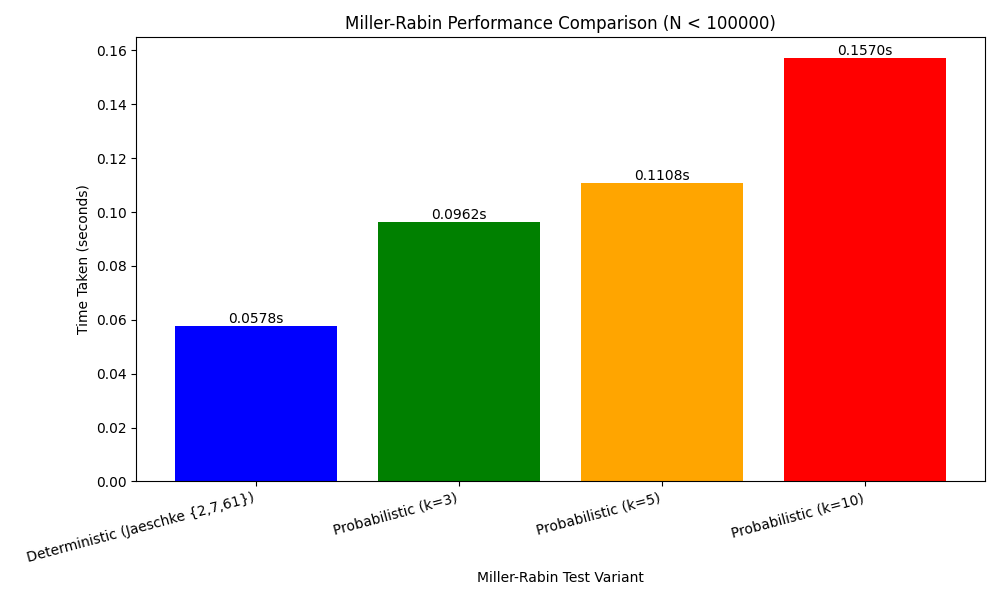
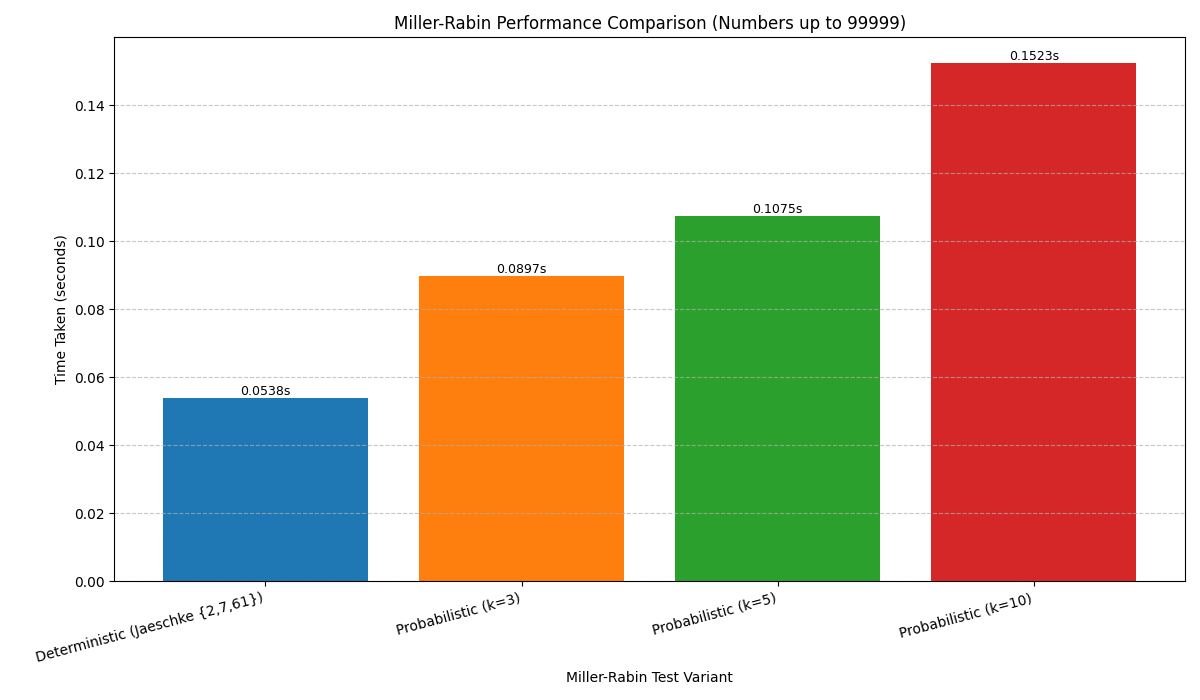
Refactor Miller-Rabin tests to save results in CSV format; remove tabulate dependency and enhance output clarity.

diff --git a/Project 3/Deliverable 2/Miller_Rabin_Deterministic.py b/Project 3/Deliverable 2/Miller_Rabin_Deterministic.py
@@ -1,119 +1,76 @@
 import random
 import time
-from tabulate import tabulate # For tables
+# Removed: from tabulate import tabulate
+import pandas as pd # For CSV and Excel output
 import matplotlib.pyplot as plt # For graphs
 
 # --- Core Miller-Rabin Logic (largely unchanged) ---
 def _is_strong_probable_prime(n, a, d, s):
-    """
-    Checks if n is a strong probable prime to base a.
-    (n - 1) = 2^s * d where d is odd.
-    Helper function for Miller-Rabin.
-    """
     x = pow(a, d, n)
     if x == 1 or x == n - 1:
         return True
-
     for _ in range(s - 1):
         x = pow(x, 2, n)
         if x == n - 1:
             return True
-        if x == 1: # Non-trivial square root of 1
+        if x == 1:
             return False
-    return False # Composite if loop finishes
+    return False
 
 def miller_rabin_deterministic_jaeschke(n):
-    """
-    Deterministic Miller-Rabin test for n < 4,759,123,141
-    using bases {2, 7, 61}.
-    Returns "prime" or "composite" or "out of range".
-    """
     if n <= 1: return "composite"
-    # Bases themselves and other small primes
     if n in {2, 3, 5, 7, 11, 13, 17, 19, 23, 29, 31, 37, 41, 43, 47, 53, 59, 61}:
         return "prime"
-    
-    if n % 2 == 0 or n % 3 == 0 or n % 5 == 0: # Quick check for divisibility by small primes
+    if n % 2 == 0 or n % 3 == 0 or n % 5 == 0:
         return "composite"
-
     if n >= 4759123141:
         return "out of range for Jaeschke set"
 
     bases = [2, 7, 61]
-
     d = n - 1
     s = 0
     while d % 2 == 0:
         d //= 2
         s += 1
-
     for a in bases:
-        if n == a: # Should have been caught by the 'in' check above, but for safety.
-            return "prime" 
-        # If a base divides n, and n is not that base itself (n > a), then n is composite.
-        # This is implicitly handled if _is_strong_probable_prime is robust for a|n,
-        # or by the fact that for these small prime bases, n%a==0 would have been caught
-        # by the earlier n%2, n%3, n%5 checks if a was 2,3,5.
-        # For a=7 or a=61, if n is a multiple, it's composite.
-        # A direct check `if n % a == 0: return "composite"` could be added here if n wasn't already filtered.
-        # The _is_strong_probable_prime test assumes gcd(a,n)=1 for its guarantees usually,
-        # but practically if pow(a,d,n) works, it means 'a' is not 0 mod n.
-        # If n%a == 0, and a < n, then n is composite. The initial checks cover a=2,3,5.
-        # For a=7 or a=61, if n % a == 0, it's composite.
-        # Let's ensure this is robust. A simple way:
-        if n % a == 0 and n != a : # If a base divides n and n is larger
-             return "composite"
-
+        if n == a: return "prime"
+        if n % a == 0 and n != a: return "composite"
         if not _is_strong_probable_prime(n, a, d, s):
             return "composite"
     return "prime"
 
 def miller_rabin_probabilistic(n, k):
-    """
-    Probabilistic Miller-Rabin test.
-    Returns "probably prime" or "composite".
-    """
     if n <= 1: return "composite"
     if n == 2 or n == 3: return "probably prime"
     if n % 2 == 0: return "composite"
-
     d = n - 1
     s = 0
     while d % 2 == 0:
         d //= 2
         s += 1
-
     for _ in range(k):
-        # Ensure 'a' is chosen correctly for small n if they reach here
-        if n <= 4: # Should not happen due to prior checks, but defensive
-            a = 2
-        elif n == 5: # randrange(2,4)
-            a = random.choice([2,3])
-        else:
-            a = random.randrange(2, n - 1)
-            
+        if n <= 4: a = 2
+        elif n == 5: a = random.choice([2,3])
+        else: a = random.randrange(2, n - 1)
         if not _is_strong_probable_prime(n, a, d, s):
             return "composite"
     return "probably prime"
 
 # --- Benchmarking Function ---
 def run_benchmark(test_limit=100000):
-    """
-    Runs benchmarks and returns results for tabulation and graphing.
-    """
     print(f"\nRunning benchmarks for numbers up to {test_limit-1}...")
     numbers_to_test = list(range(test_limit))
-    benchmark_results = []
+    benchmark_results_list_of_dicts = [] # Changed variable name for clarity
 
     # Deterministic Jaeschke
     start_time = time.time()
     for num in numbers_to_test:
         miller_rabin_deterministic_jaeschke(num)
     time_taken = time.time() - start_time
-    benchmark_results.append({
+    benchmark_results_list_of_dicts.append({
         "Test Type": "Deterministic (Jaeschke {2,7,61})",
-        "N": test_limit,
-        "Time (s)": f"{time_taken:.4f}"
+        "N (Up to)": test_limit -1, # Clarify N refers to numbers tested up to N-1
+        "Time (s)": float(f"{time_taken:.4f}") # Store as float for easier processing
     })
 
     # Probabilistic Miller-Rabin with varying k
@@ -122,20 +79,23 @@ def run_benchmark(test_limit=100000):
         for num in numbers_to_test:
             miller_rabin_probabilistic(num, k_prob)
         time_taken = time.time() - start_time
-        benchmark_results.append({
+        benchmark_results_list_of_dicts.append({
             "Test Type": f"Probabilistic (k={k_prob})",
-            "N": test_limit,
-            "Time (s)": f"{time_taken:.4f}"
+            "N (Up to)": test_limit -1,
+            "Time (s)": float(f"{time_taken:.4f}")
         })
-    return benchmark_results
+    return benchmark_results_list_of_dicts
 
 # --- Main Execution ---
 if __name__ == "__main__":
     print("Miller-Rabin Primality Test Output Demonstration")
     print("=" * 50)
+    print("Note: Output will be saved to CSV and Excel files.")
+    print("Ensure you have 'pandas' and 'openpyxl' installed: pip install pandas openpyxl")
 
-    # 1. Deterministic Test Examples Table
-    print("\n1. Deterministic Miller-Rabin Test Examples (Jaeschke for n < 4,759,123,141)")
+
+    # 1. Deterministic Test Examples
+    print("\n1. Processing Deterministic Miller-Rabin Test Examples...")
     deterministic_test_cases = [
         {"Number": 1, "Known Status": "Composite (Not Prime)"},
         {"Number": 2, "Known Status": "Prime"},
@@ -144,57 +104,78 @@ if __name__ == "__main__":
         {"Number": 61, "Known Status": "Prime (a base)"},
         {"Number": 97, "Known Status": "Prime"},
         {"Number": 2047, "Known Status": "Composite (23*89)"},
-        {"Number": 4759123123, "Known Status": "Composite (17*279948419)"}, # Corrected
+        {"Number": 4759123123, "Known Status": "Composite (17*279948419)"},
         {"Number": 4759123140, "Known Status": "Composite (Even)"},
         {"Number": 4759123141, "Known Status": "N/A (Test Limit Boundary)"}
     ]
 
-    table_data_det = []
-    headers_det = ["Number", "Known Status", "Test Result (Deterministic Jaeschke)"]
+    results_for_df_det = []
     for case in deterministic_test_cases:
         num = case["Number"]
         result = miller_rabin_deterministic_jaeschke(num)
-        table_data_det.append([num, case["Known Status"], result])
+        results_for_df_det.append({
+            "Number": num,
+            "Known Status": case["Known Status"],
+            "Test Result (Deterministic Jaeschke)": result
+        })
     
-    print(tabulate(table_data_det, headers=headers_det, tablefmt="grid"))
+    df_deterministic_results = pd.DataFrame(results_for_df_det)
+    
+    # Save deterministic results to CSV
+    csv_det_filename = "deterministic_primality_tests_results.csv"
+    df_deterministic_results.to_csv(csv_det_filename, index=False)
+    print(f"Deterministic test results saved to '{csv_det_filename}'")
 
-    # 2. Efficiency Comparison (Table and Graph)
-    print("\n2. Efficiency Comparison")
+    # 2. Efficiency Comparison
+    print("\n2. Processing Efficiency Comparison Benchmark...")
     # You can change test_limit for benchmark if needed, e.g., 10000 for faster run during dev
-    benchmark_data = run_benchmark(test_limit=100000) 
-    
-    # Benchmark Table
-    print("\nBenchmark Results Table:")
-    # benchmark_data is already a list of dicts, tabulate can handle that directly
-    print(tabulate(benchmark_data, headers="keys", tablefmt="grid"))
+    benchmark_data_list_of_dicts = run_benchmark(test_limit=100000) 
+    df_benchmark_results = pd.DataFrame(benchmark_data_list_of_dicts)
 
-    # Benchmark Graph
-    print("\nGenerating benchmark graph (benchmark_comparison.png)...")
-    labels = [item["Test Type"] for item in benchmark_data]
-    times = [float(item["Time (s)"]) for item in benchmark_data]
+    # Save benchmark results to CSV
+    csv_bench_filename = "benchmark_results.csv"
+    df_benchmark_results.to_csv(csv_bench_filename, index=False)
+    print(f"Benchmark results saved to '{csv_bench_filename}'")
 
-    plt.figure(figsize=(10, 6))
-    bars = plt.bar(labels, times, color=['blue', 'green', 'orange', 'red'])
+    # Save both results to a single Excel file with different sheets
+    excel_filename = "miller_rabin_all_results.xlsx"
+    try:
+        with pd.ExcelWriter(excel_filename, engine='openpyxl') as writer:
+            df_deterministic_results.to_excel(writer, sheet_name='Deterministic Tests', index=False)
+            df_benchmark_results.to_excel(writer, sheet_name='Benchmark Comparison', index=False)
+        print(f"All results saved to '{excel_filename}'")
+    except Exception as e:
+        print(f"Could not write to Excel file '{excel_filename}': {e}")
+        print("Make sure 'openpyxl' is installed: pip install openpyxl")
+
+
+    # 3. Benchmark Graph (remains the same, saves to PNG)
+    print("\n3. Generating benchmark graph (benchmark_comparison.png)...")
+    labels = [item["Test Type"] for item in benchmark_data_list_of_dicts]
+    times = [item["Time (s)"] for item in benchmark_data_list_of_dicts] # Already float
+
+    plt.figure(figsize=(12, 7)) # Adjusted figure size
+    bars = plt.bar(labels, times, color=['#1f77b4', '#ff7f0e', '#2ca02c', '#d62728']) # Example colors
     plt.ylabel('Time Taken (seconds)')
     plt.xlabel('Miller-Rabin Test Variant')
-    plt.title(f'Miller-Rabin Performance Comparison (N < {benchmark_data[0]["N"]})')
-    plt.xticks(rotation=15, ha="right") # Rotate labels for better readability
-    plt.tight_layout() # Adjust layout to make room for labels
-
+    plt.title(f'Miller-Rabin Performance Comparison (Numbers up to {benchmark_data_list_of_dicts[0]["N (Up to)"]})')
+    plt.xticks(rotation=15, ha="right")
+    
     # Add text labels on top of bars
     for bar in bars:
         yval = bar.get_height()
-        plt.text(bar.get_x() + bar.get_width()/2.0, yval, f'{yval:.4f}s', va='bottom', ha='center')
-
+        plt.text(bar.get_x() + bar.get_width()/2.0, yval, f'{yval:.4f}s', va='bottom', ha='center', fontsize=9)
+    
+    plt.grid(axis='y', linestyle='--', alpha=0.7) # Add a light grid for y-axis
+    plt.tight_layout()
 
     try:
         plt.savefig("miller_rabin_benchmark_comparison.png")
         print("Benchmark graph saved as 'miller_rabin_benchmark_comparison.png'")
-        # plt.show() # Uncomment to display the plot interactively if a GUI environment is available
+        # plt.show() # Uncomment to display the plot interactively
     except Exception as e:
         print(f"Could not save or show plot: {e}")
-        print("Matplotlib might require a GUI backend or specific configuration to display plots directly.")
+        print("Matplotlib might require a GUI backend or specific configuration.")
 
     print("\n=" * 50)
-    print("Note: To run this script, you may need to install 'tabulate' and 'matplotlib'.")
-    print("You can install them using: pip install tabulate matplotlib")
+    print("Script finished. Check the generated CSV, Excel, and PNG files.")
